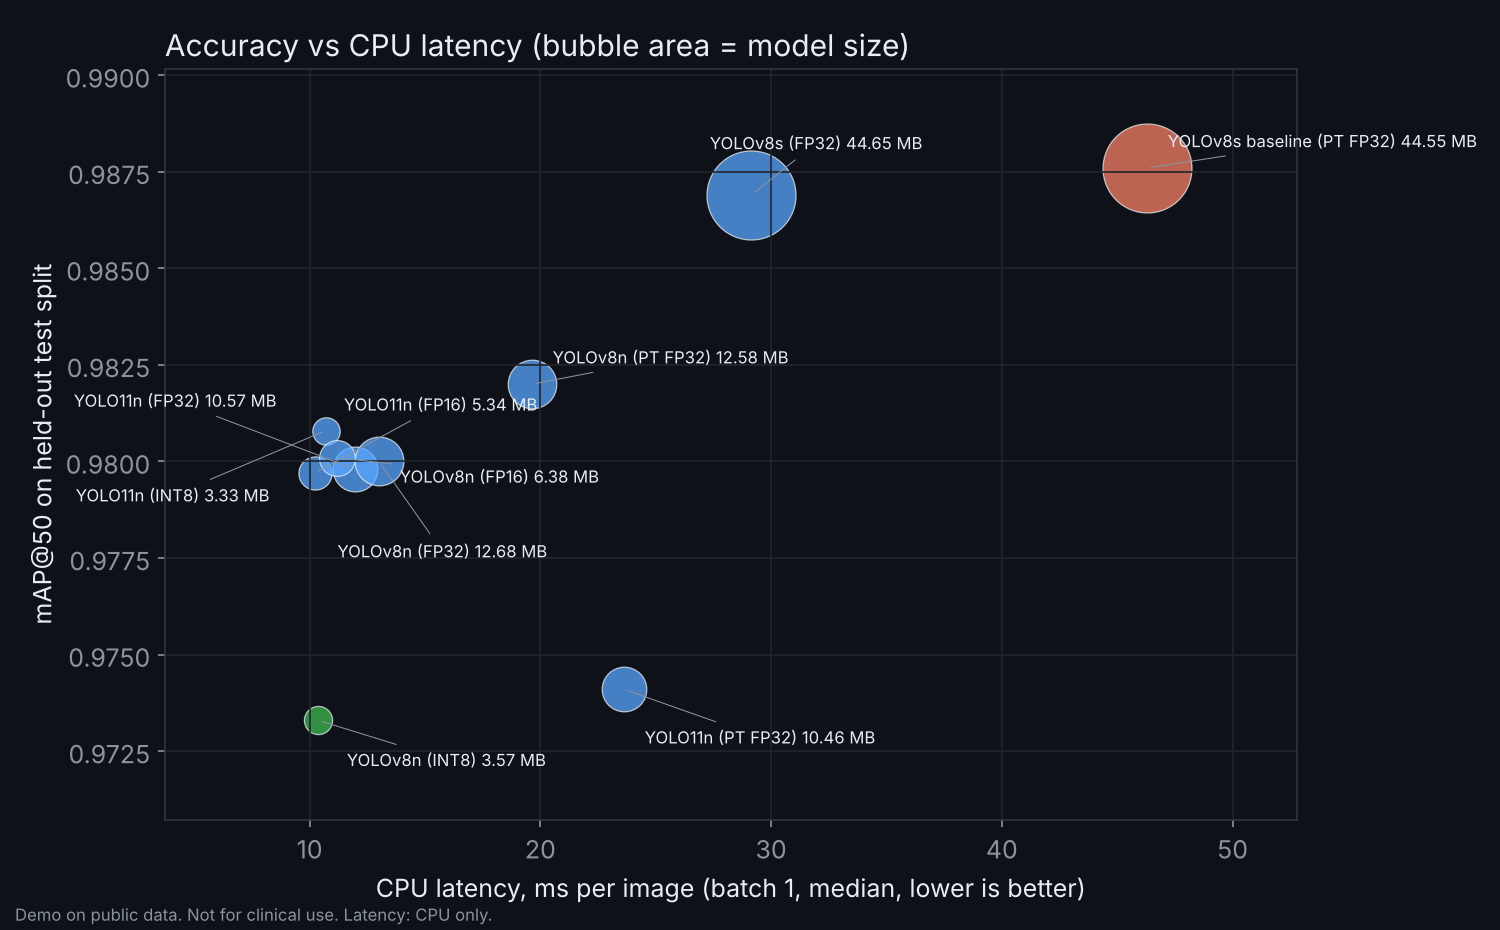
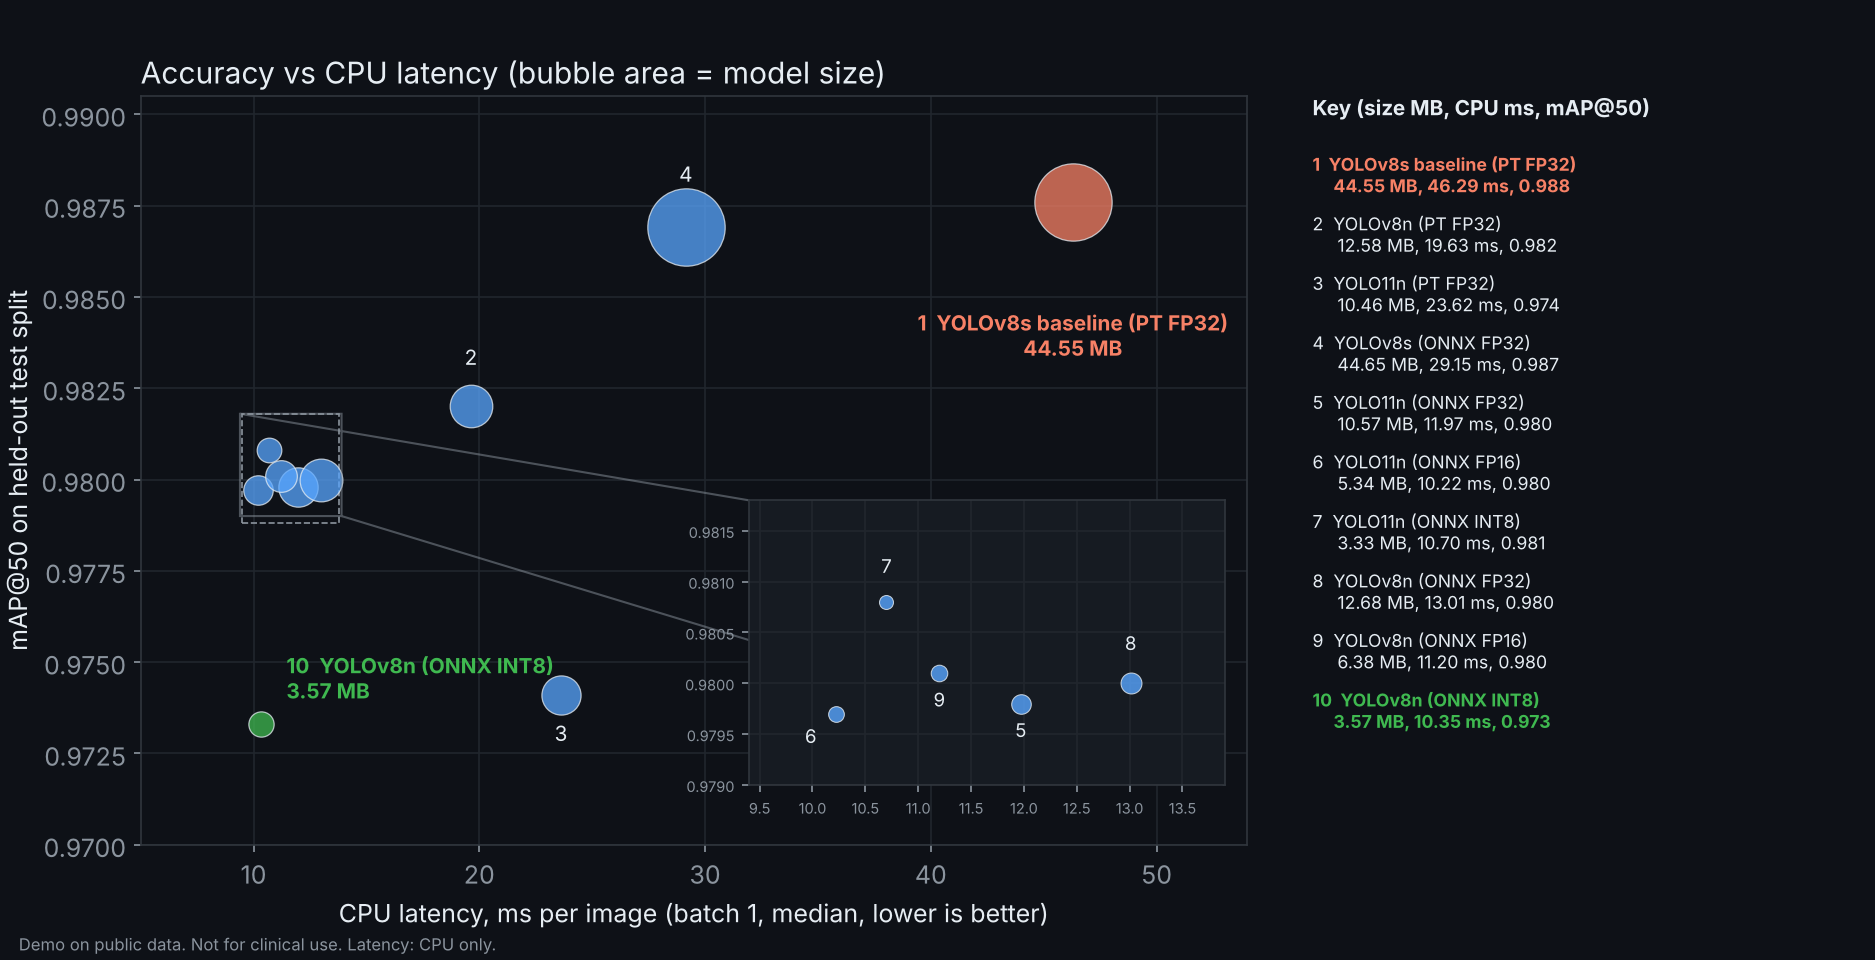
tidy tradeoff chart labels

diff --git a/make_assets.py b/make_assets.py
@@ -66,26 +66,61 @@ def main():
     headline = (f"{size_x:.1f}x smaller · {speed_x:.1f}x faster on CPU · "
                 f"mAP@50 {dmap:+.1f} pts")
 
-    # tradeoff chart
-    fig, ax = plt.subplots(figsize=(10, 6.2), dpi=150)
-    offs = [(10, 10), (10, 10), (10, -26), (-20, 22), (-135, 30), (14, 30), (-120, -34), (-20, -46),
-            (30, -12), (14, -22)]
-    for k, (m, r) in enumerate(df.iterrows()):
-        col = ACC1 if m == a.base_row else (ACC2 if m == a.light_row else "#58a6ff")
-        ax.scatter(r.cpu_latency_ms_median, r.mAP50, s=r.size_MB * 40 + 40, color=col, alpha=.75,
-                   edgecolor=FG, linewidth=.6)
-        ax.annotate(f"{m.replace('PyTorch ', 'PT ').replace('ONNX ', '')} {r.size_MB} MB",
-                    (r.cpu_latency_ms_median, r.mAP50), fontsize=8,
-                    xytext=offs[k % len(offs)], textcoords="offset points", color=FG,
-                    arrowprops=dict(arrowstyle="-", color=MUTED, lw=.5))
+    # tradeoff chart: numbered markers keyed to a list; zoom inset for the crowded 10-13 ms region
+    models = list(df.index)
+    short = lambda m: m.replace("PyTorch ", "PT ")
+    fig = plt.figure(figsize=(12.5, 6.4), dpi=150)
+    ax = fig.add_axes([0.075, 0.12, 0.59, 0.78])
+    colr = lambda m: ACC1 if m == a.base_row else (ACC2 if m == a.light_row else "#58a6ff")
+    for k, m in enumerate(models, 1):
+        r = df.loc[m]
+        ax.scatter(r.cpu_latency_ms_median, r.mAP50, s=r.size_MB * 30 + 40, color=colr(m), alpha=.75,
+                   edgecolor=FG, linewidth=.6, zorder=3)
+    crowd = lambda r: 9.5 <= r.cpu_latency_ms_median <= 13.8 and r.mAP50 > 0.979
+    tag = {"YOLOv8s (ONNX FP32)": (0, 22), "YOLOv8n (PyTorch FP32)": (0, 20),
+           "YOLO11n (PyTorch FP32)": (0, -22), "YOLOv8n (ONNX INT8)": (0, -20)}
+    for k, m in enumerate(models, 1):
+        r = df.loc[m]
+        if crowd(r):
+            continue
+        if m in (a.base_row, a.light_row):
+            ax.annotate(f"{k}  {short(m)}\n{r.size_MB:.2f} MB", (r.cpu_latency_ms_median, r.mAP50),
+                        xytext=((0, -52) if m == a.base_row else (12, 10)), textcoords="offset points",
+                        ha="center" if m == a.base_row else "left", va="top" if m == a.base_row else "bottom", fontsize=10, weight="bold", color=colr(m))
+        else:
+            ax.annotate(str(k), (r.cpu_latency_ms_median, r.mAP50), xytext=tag.get(m, (0, 18)),
+                        textcoords="offset points", ha="center", fontsize=10, color=FG)
+    ax.add_patch(plt.Rectangle((9.5, 0.9788), 4.3, 0.0030, fill=False, ec=MUTED, ls="--", lw=.8, zorder=2))
     ax.set_xlabel("CPU latency, ms per image (batch 1, median, lower is better)")
     ax.set_ylabel("mAP@50 on held-out test split")
     ax.set_title("Accuracy vs CPU latency (bubble area = model size)", color=FG, loc="left")
     ax.grid(color="#21262d")
-    ax.margins(0.18)
+    ax.set_xlim(5, 54)
+    ax.set_ylim(0.9700, 0.9905)
+    ins = ax.inset_axes([0.55, 0.08, 0.43, 0.38])
+    ins.set_xlim(9.4, 13.9); ins.set_ylim(0.9790, 0.9818)
+    ins.set_facecolor("#161b22"); ins.grid(color="#21262d")
+    ins.tick_params(labelsize=7)
+    ins_off = {"YOLO11n (ONNX FP32)": (0, -16), "YOLO11n (ONNX FP16)": (-12, -14), "YOLO11n (ONNX INT8)": (0, 14),
+               "YOLOv8n (ONNX FP32)": (0, 16), "YOLOv8n (ONNX FP16)": (0, -16)}
+    for k, m in enumerate(models, 1):
+        r = df.loc[m]
+        if crowd(r):
+            ins.scatter(r.cpu_latency_ms_median, r.mAP50, s=r.size_MB * 6 + 25, color=colr(m), alpha=.8,
+                        edgecolor=FG, linewidth=.5, zorder=3)
+            ins.annotate(str(k), (r.cpu_latency_ms_median, r.mAP50), xytext=ins_off.get(m, (0, 14)),
+                         textcoords="offset points", ha="center", fontsize=9, color=FG)
+    ax.indicate_inset_zoom(ins, edgecolor=MUTED)
+    # key
+    fig.text(0.70, 0.88, "Key (size MB, CPU ms, mAP@50)", color=FG, fontsize=10, weight="bold")
+    for k, m in enumerate(models, 1):
+        r = df.loc[m]
+        hi = m in (a.base_row, a.light_row)
+        fig.text(0.70, 0.84 - (k - 1) * 0.062,
+                 f"{k}  {short(m)}\n     {r.size_MB:.2f} MB, {r.cpu_latency_ms_median:.2f} ms, {r.mAP50:.3f}",
+                 color=colr(m) if hi else FG, fontsize=8.5, weight="bold" if hi else "normal", va="top")
     fig.text(0.01, 0.01, "Demo on public data. Not for clinical use. Latency: CPU only.",
              color=MUTED, fontsize=8)
-    fig.tight_layout()
     fig.savefig(A / "tradeoff_chart.png")
     plt.close(fig)
 
